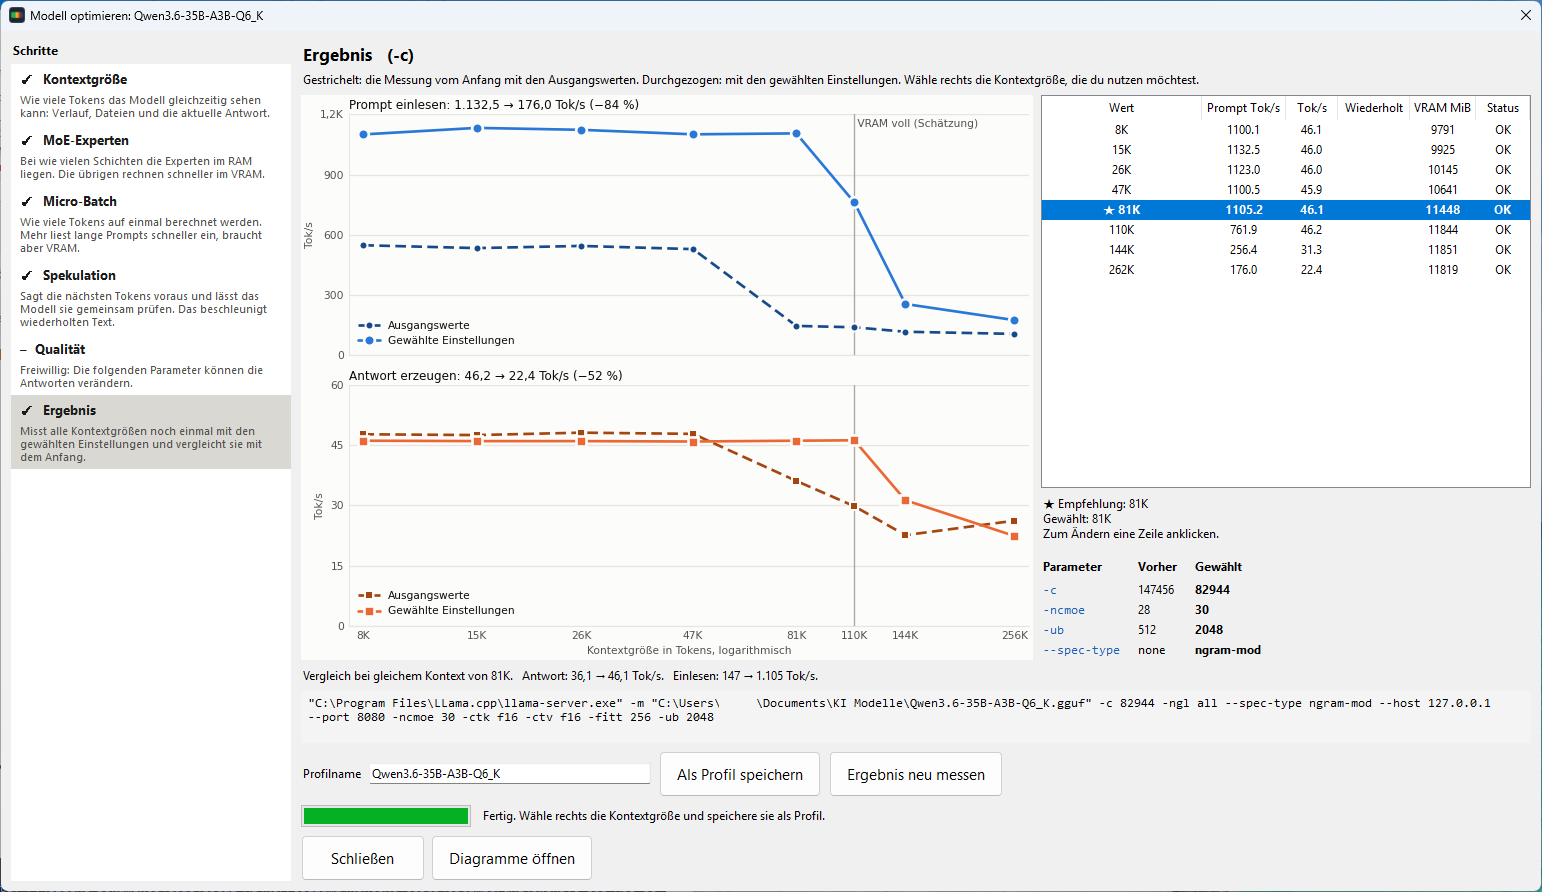
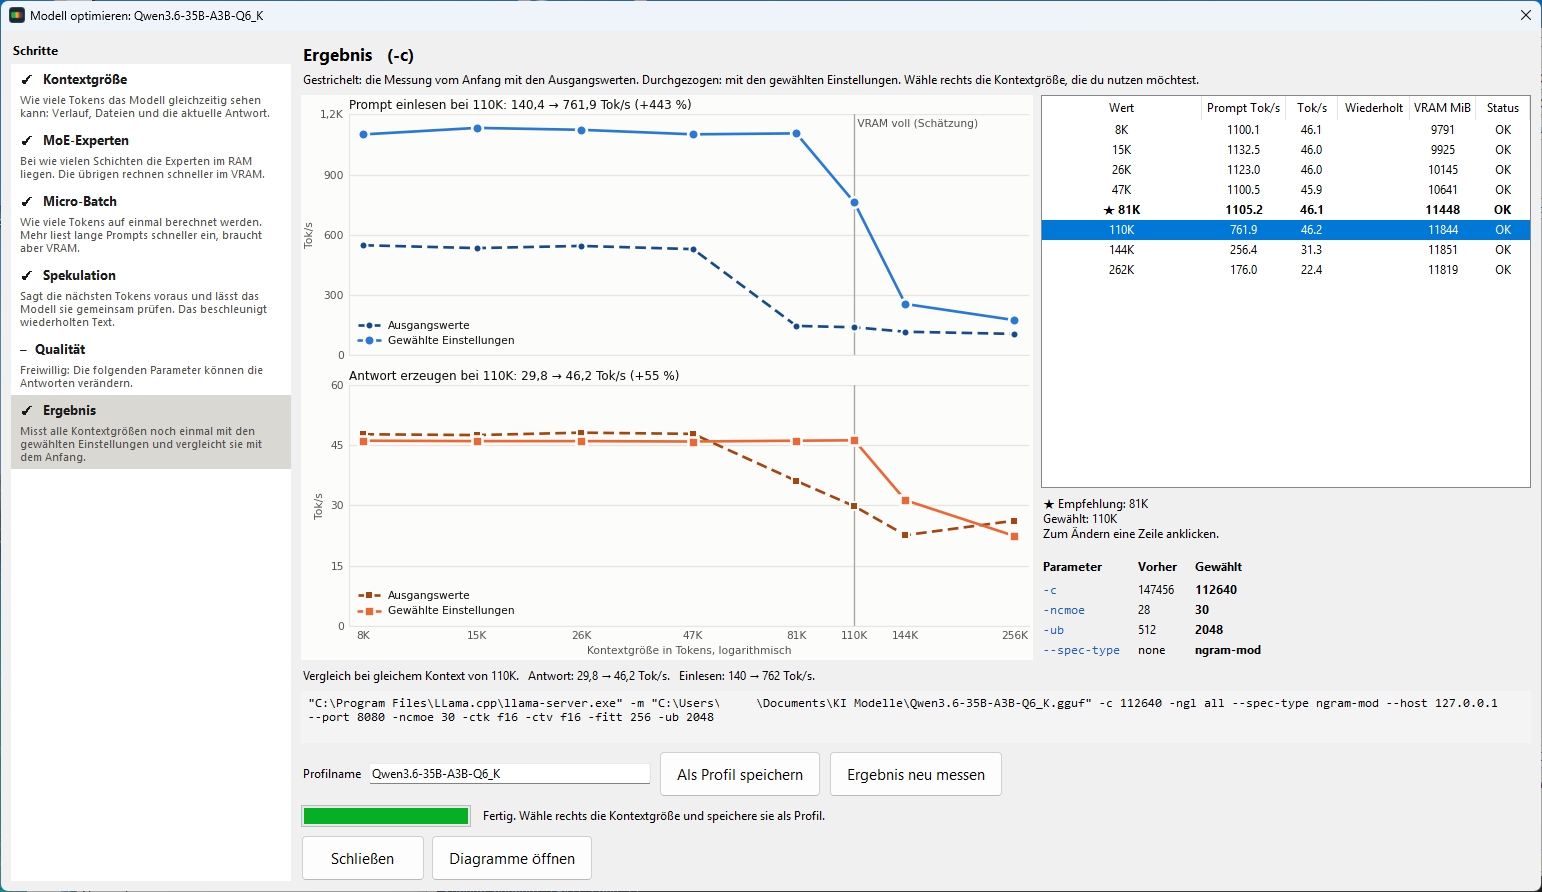
README: neues Ergebnisbild bei 110K
Das Bild zeigt die Titel mit dem Vergleich bei der gewählten Größe, der
Benutzername im Startbefehl ist übermalt. Der Text nennt die Werte bei 110K.

diff --git a/README.de.md b/README.de.md
@@ -40,7 +40,7 @@ Den Assistenten startest du mit dem Knopf **Modell optimieren** in der oberen Le
 
 ![Ergebnis: Prompt- und Antworttempo mit den gewählten Einstellungen durchgezogen, die Messung vom Anfang gestrichelt, rechts die Auswahl der Kontextgröße](Bilder/ergebnis.png)
 
-Das Beispiel zeigt das MoE-Modell Qwen3.6 35B-A3B (Q6_K) auf einer RTX 4070 mit 12 GB, der Qualitätsteil ist übersprungen. Mit den Ausgangswerten bricht das Tempo oberhalb von 47K Kontext ein. Mit `-ncmoe 30`, `-ub 2048` und `ngram-mod` hält die Antwort dagegen bis 110K bei rund 46 Tok/s. Bei 81K steigt sie von 36,1 auf 46,1 Tok/s und das Einlesen von 147 auf 1.105 Tok/s, ohne dass dafür Qualität verloren geht. Ganz oben bei 262K ist die Ausgangsmessung bei der Antwort etwas schneller. Dort hatte am Anfang jede Kontextgröße ihre eigene Verteilung der Experten, das Ergebnis nutzt dagegen fest `-ncmoe 30`.
+Das Beispiel zeigt das MoE-Modell Qwen3.6 35B-A3B (Q6_K) auf einer RTX 4070 mit 12 GB, der Qualitätsteil ist übersprungen. Mit den Ausgangswerten bricht das Tempo oberhalb von 47K Kontext ein. Mit `-ncmoe 30`, `-ub 2048` und `ngram-mod` hält die Antwort dagegen bis 110K bei rund 46 Tok/s. Bei 110K steigt sie von 29,8 auf 46,2 Tok/s und das Einlesen von 140 auf 762 Tok/s, bei 81K von 36,1 auf 46,1 und von 147 auf 1.105 Tok/s. Dafür geht keine Qualität verloren. Ganz oben bei 262K ist die Ausgangsmessung bei der Antwort etwas schneller. Dort hatte am Anfang jede Kontextgröße ihre eigene Verteilung der Experten, das Ergebnis nutzt dagegen fest `-ncmoe 30`.
 
 Auch die einzelnen Schritte können viel zeigen. Im selben Lauf hob `-ncmoe 30` statt 28 das Einlesen bei 81K von 278 auf 545 Tok/s und die Antwort von 31,4 auf 46,3 Tok/s. `-ub 2048` statt 512 verdoppelte das Einlesen danach noch einmal auf 1.095 Tok/s. In einem Lauf mit Hermes 4 14B stieg das Tempo bei wiederholtem Text mit `ngram-simple` von 53 auf 1.011 Tok/s, neuer Text wurde dadurch nicht langsamer. In einem anderen Lauf mit Hermes 3 8B (Q6_K) fiel die Antwort bei 47K Kontext mit `-ctk f16` auf 1,9 Tok/s, mit `q8_0` waren es 67 Tok/s.
 
